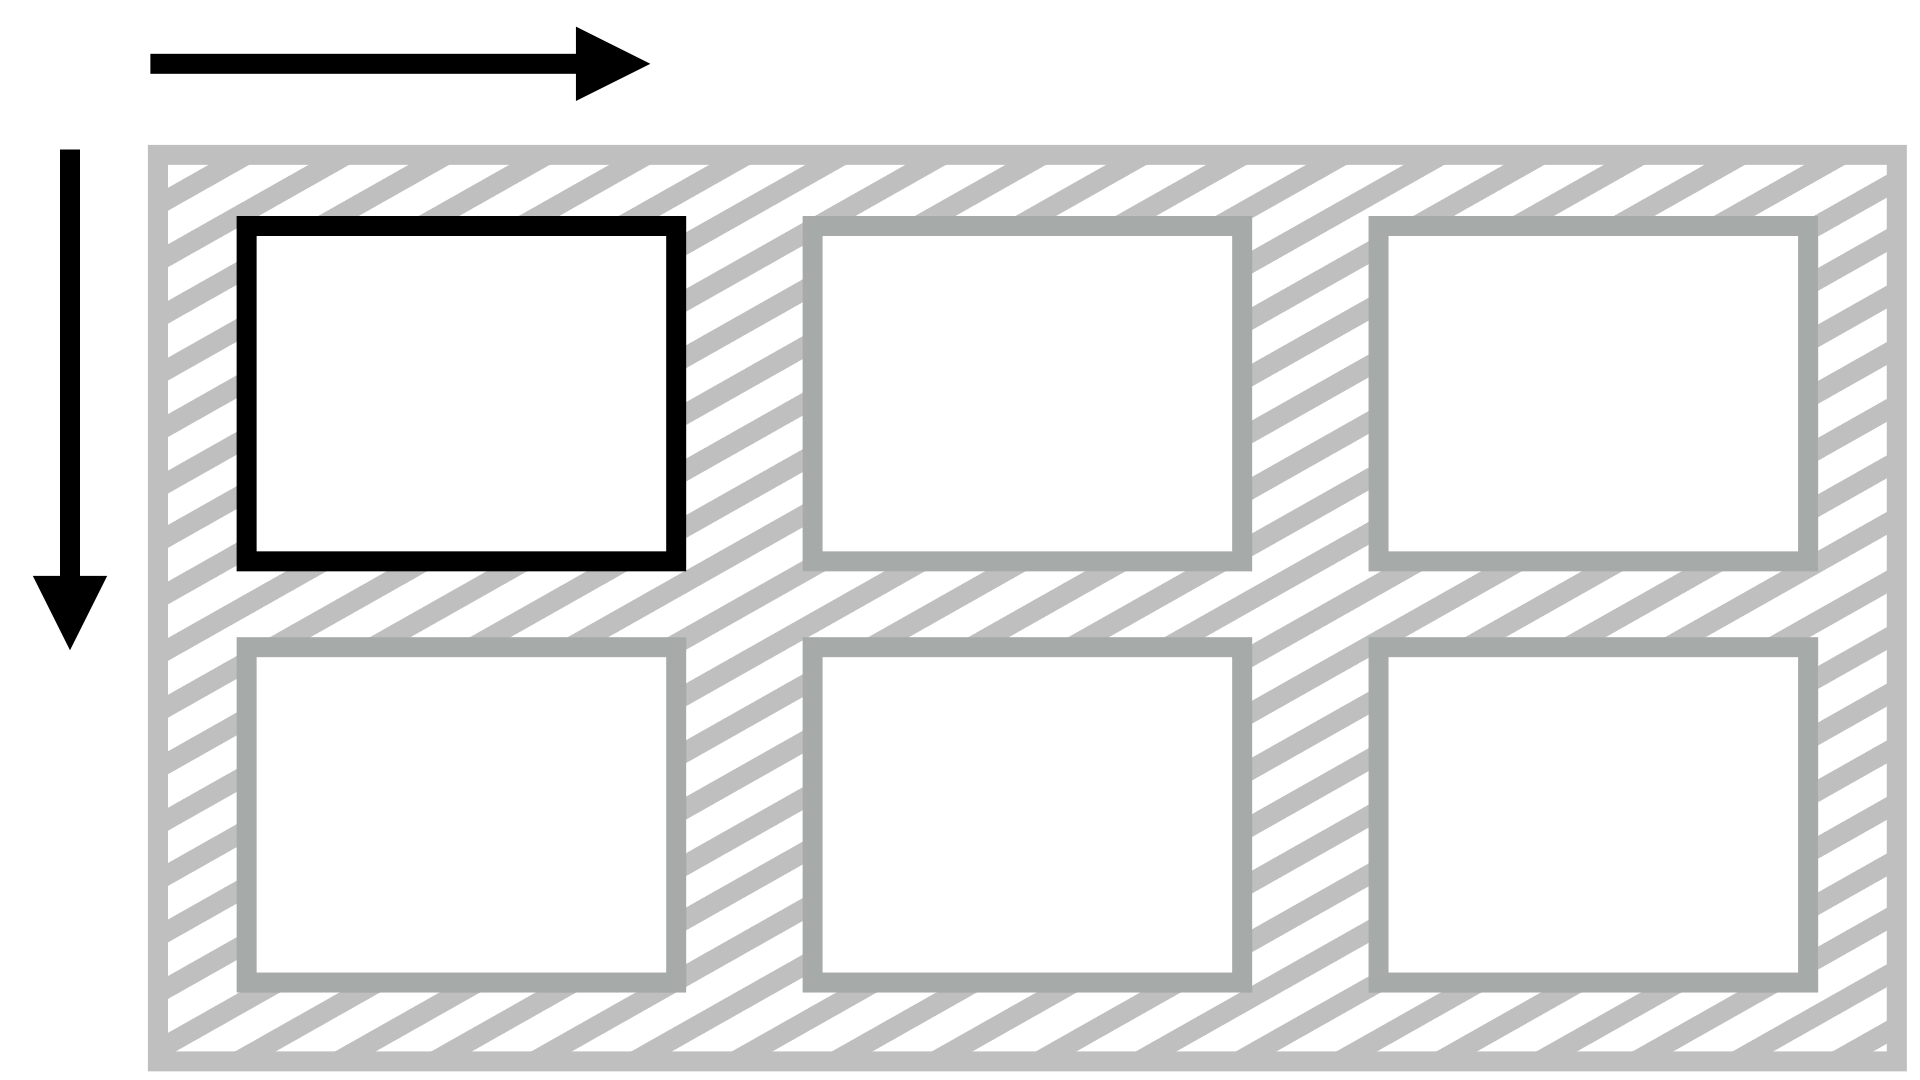
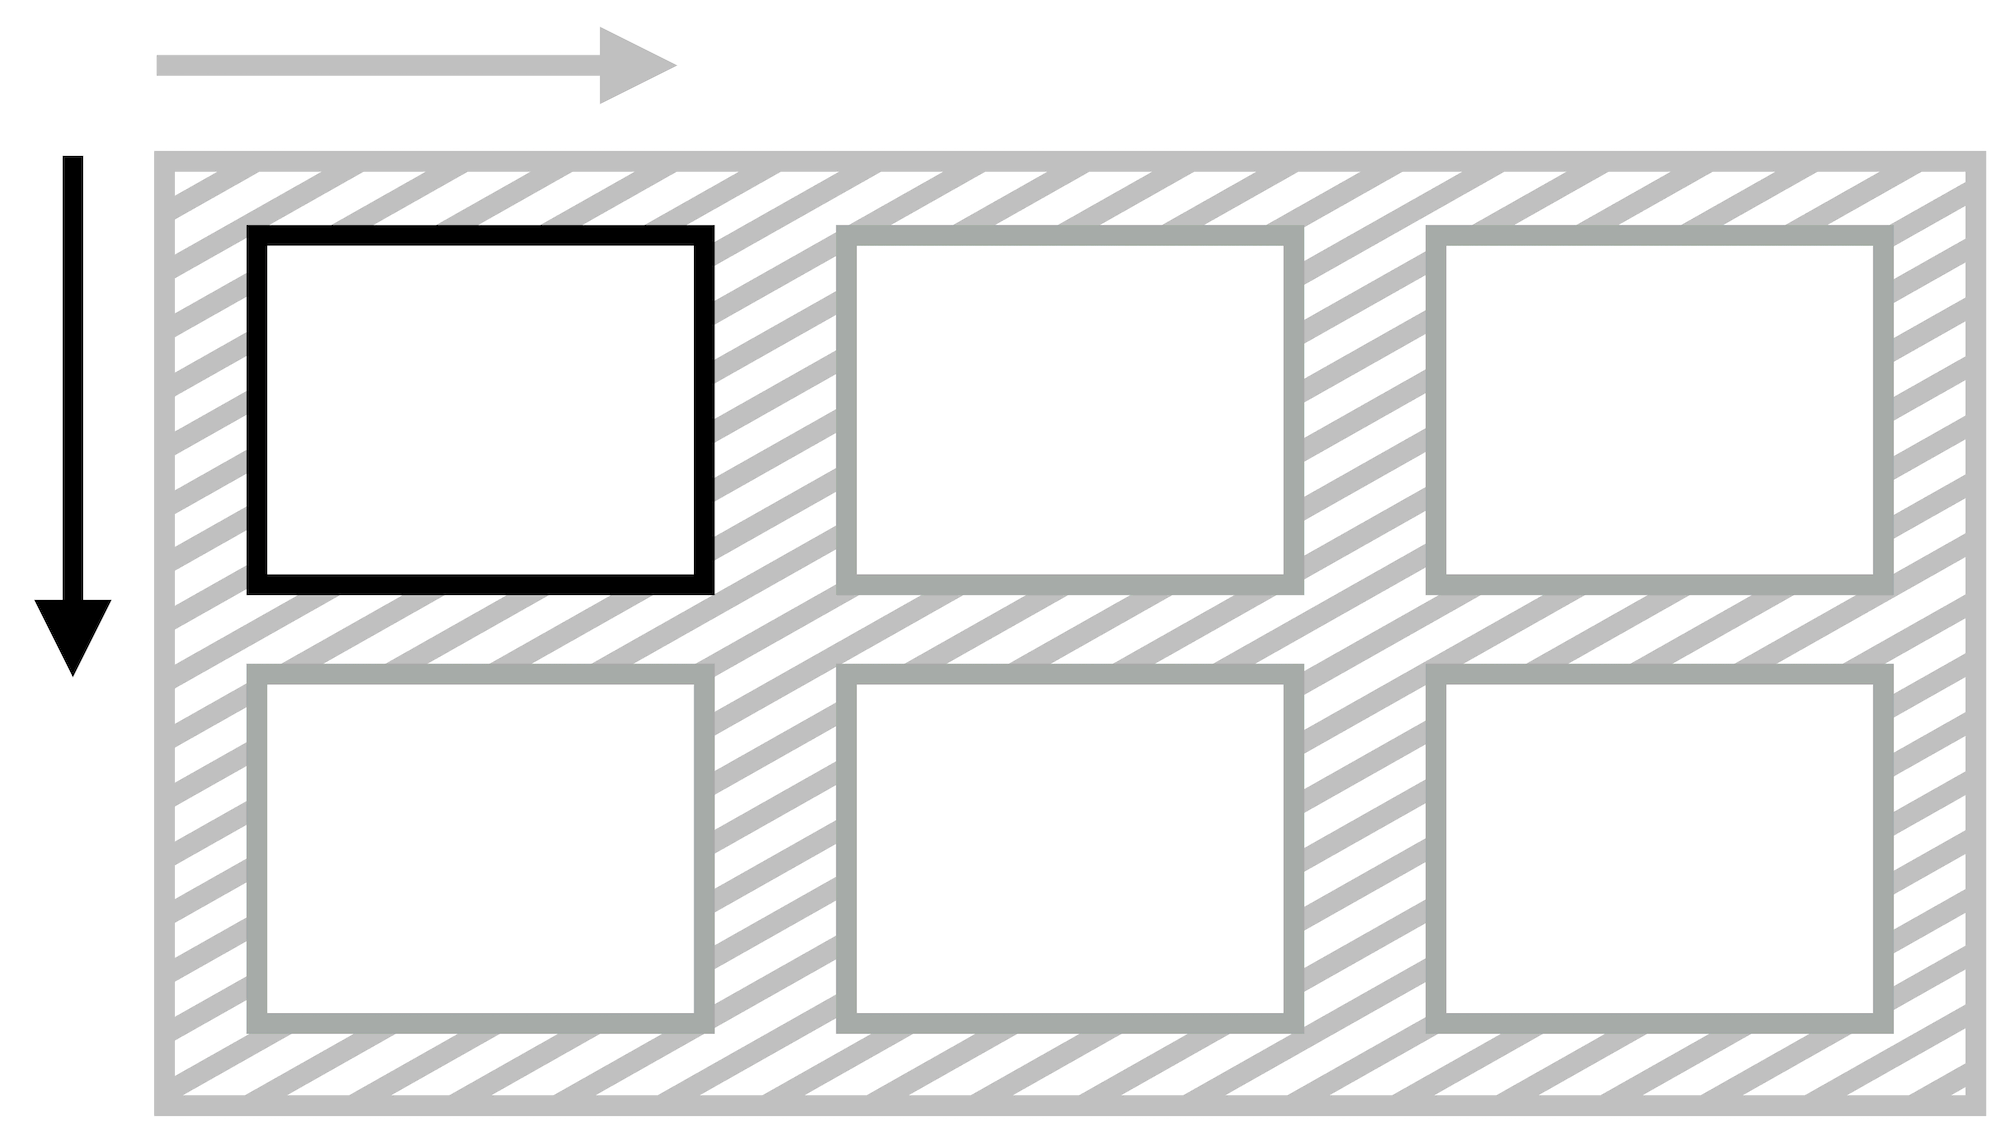
Oprava obrazku css-align-self-schema.png (fixes #25)

Changed region(s): [[0.0625, 0.0306, 0.3438, 0.0917]]

diff --git a/content/css-box-alignment.md b/content/css-box-alignment.md
@@ -8,7 +8,7 @@ Modul Box Alignment v CSS specifikuje zarovnání boxů v různých modelech roz
 - [Vícesloupcový layout](css3-multicolumn.md)
 </div>
 
-Specifikace [Box Alignment Module Level 3](https://www.w3.org/TR/css-align-3/) v podstatě vzala všechna zarovnání a rozdělení prostoru definovaná ve flexboxu, něco přidala a zpřístupnila ji ostatním systémům pro layout, což nás zajímá hlavně pro potřeby [CSS gridu](css-grid.md). O tom je tato příručka na Vzhůru dolů.
+Specifikace [Box Alignment Module Level 3](https://www.w3.org/TR/css-align-3/) v podstatě vzala všechna zarovnání a rozdělení prostoru definovaná ve flexboxu, něco přidala a zpřístupnila ji ostatním systémům pro layout, což nás zajímá hlavně pro potřeby CSS gridu. O tom je tato příručka na Vzhůru dolů.
 
 <!-- AdSnippet -->
 
@@ -22,7 +22,7 @@ Vlastností, které obstarávají zarovnávání v CSS, je na jednu webařskou h
 
 Naštěstí jsou ale ty nejdůležitější vlastnosti pojmenované podle jednoduchého klíče. Než vyberete tu správnou, musíte si ujasnit:
 
-- Směr zarovnávání (hlavní osa je obvykle vodorovná, příčná osa svislá).
+- Směr zarovnávání (hlavní osa je obvykle vodorovná, jinak též řádková; příčná osa svislá, jinak též bloková).
 - Co budete zarovnávat (všechny položky, jednu položku nebo obsah mezi nimi).
 
 <div class="rwd-scrollable f-6"  markdown="1">
@@ -35,7 +35,11 @@ Naštěstí jsou ale ty nejdůležitější vlastnosti pojmenované podle jednod
 
 </div>
 
-Je dobré vědět, že v tabulce nejsou obsaženy zdaleka všechny zarovnávací vlastnosti, na ty se pojďme podívat hned v další části textu.
+Jen připomínám, že směr hlavní a příčné osy se může změnit – například pomocí vlastnosti [`flex-direction` nastavené na `column`](css3-flexbox-kontejner.md).
+
+V tabulce nejsou obsaženy zdaleka všechny zarovnávací vlastnosti, na ty se pojďme podívat hned v další části textu.
+
+Každou vlastnost si zde můžete rozkliknout a dostat se tak na její specifikaci.
 
 ## Zarovnání položek (`*-items`) {#polozky}
 
@@ -47,21 +51,21 @@ Na kontejneru definujeme, jak se budou zarovnávat jednotlivé položky.
 |----------|-----------------------------------------|-----------|
 | [![Vlastnost justify-items](../dist/images/small/vdgrid/css-justify-items-schema.png)](css-justify-items.md) | [`justify-items`](css-justify-items.md) | Zarovnání na řádkové ose (obvykle vodorovně). <br> Např. `justify-items: center` centruje všechny položky. |
 | [![Vlastnost align-items](../dist/images/small/vdgrid/css-align-items-schema.png)](css-align-items.md) | [`align-items`](css-align-items.md)     | Zarovnání na blokové ose (obvykle svisle). <br> Např. `align-items: end` zarovná položky ke spodní hraně kontejneru. |
-| [![Vlastnost place-items](../dist/images/small/vdgrid/css-place-items-schema.png)](css-place-items.md) | [`place-items`](css-place-items.md)     | Zkratka pro obě vlastnosti. <br> Např. `align-items: end center` zarovná položky ke spodní hraně a vodorovně na střed. |
+| [![Vlastnost place-items](../dist/images/small/vdgrid/css-place-items-schema.png)](css-place-items.md) | [`place-items`](css-place-items.md)     | Zkratka pro zarovnání položek v obou směrech. <br> Např. `align-items: end center` zarovná položky ke spodní hraně a vodorovně na střed. |
 
 </div>
 
 ## Zarovnání samostatné položky (`*-self`) {#sebe-sama}
 
-Konkrétní položce definujeme, jak se bude zarovnávat.
+Pro konkrétní položku definujeme, jak se bude zarovnávat.
 
 <div class="rwd-scrollable f-6" markdown="1">
 
 |          | Vlastnost                               | Co dělá?  |
 |----------|-----------------------------------------|-----------|
 | [![Vlastnost justify-self](../dist/images/small/vdgrid/css-justify-self-schema.png)](css-justify-self.md) | [`justify-self`](css-justify-self.md)   | Zarovnání na řádkové ose (obvykle vodorovně). <br> Např. `justify-self: center` vodorovně centruje položku. |
-| [![Vlastnost align-self](../dist/images/small/vdgrid/css-align-self-schema.png)](css-align-self.md) | [`align-self`](css-align-self.md)   | Zarovnání na blokové ose (obvykle svisle). <br> Např. `justify-self: end` zarovná položku ke spodní hraně. |
-| [![Vlastnost place-self](../dist/images/small/vdgrid/css-place-self-schema.png)](css-place-self.md) | [`place-self`](css-place-self.md)   | Zkratka pro zarovnání v obou směrech. <br> Např. `place-self: end center` zarovná položku ke spodní hraně a vodorovně doprostřed. |
+| [![Vlastnost align-self](../dist/images/small/vdgrid/css-align-self-schema.png?2)](css-align-self.md) | [`align-self`](css-align-self.md)   | Zarovnání na blokové ose (obvykle svisle). <br> Např. `justify-self: end` zarovná položku ke spodní hraně. |
+| [![Vlastnost place-self](../dist/images/small/vdgrid/css-place-self-schema.png)](css-place-self.md) | [`place-self`](css-place-self.md)   | Zkratka pro zarovnání jednotlivé položky v obou směrech. <br> Např. `place-self: end center` zarovná položku ke spodní hraně a vodorovně doprostřed. |
 
 </div>
 
@@ -75,7 +79,7 @@ Vlastnosti, které řídí rozdělení volného prostoru, který uvnitř kontejn
 |----------|-----------------------------------------|-----------|
 | [![Vlastnost justify-content](../dist/images/small/vdgrid/css-justify-content-schema.png)](css-justify-content.md) | [`justify-content`](css-justify-content.md) | Rozdělení prostoru na řádkové ose (obvykle vodorovně). <br> Např. `justify-content: space-between` rozdělí prostor mezi položky. |
 | [![Vlastnost align-content](../dist/images/small/vdgrid/css-align-content-schema.png)](css-align-content.md) | [`align-content`](css-align-content.md) | Rozdělení prostoru na blokové ose (obvykle svisle). <br> Např. `align-content: start` zajistí zarovnání položek k horní hraně kontejneru. |
-| [![Vlastnost place-content](../dist/images/small/vdgrid/css-place-content-schema.png)](css-place-content.md) | [`place-content`](css-place-content.md) | Zkratka oba směry. <br> Např. `place-content: start space-between` zajistí zarovnání položek k horní hraně kontejneru a vodorovné dělení prostoru mezi položky. |
+| [![Vlastnost place-content](../dist/images/small/vdgrid/css-place-content-schema.png)](css-place-content.md) | [`place-content`](css-place-content.md) | Zkratka pro rozdělení prostoru v obou směrech. <br> Např. `place-content: start space-between` zajistí zarovnání položek k horní hraně kontejneru a vodorovné dělení prostoru mezi položky. |
 
 </div>
 
